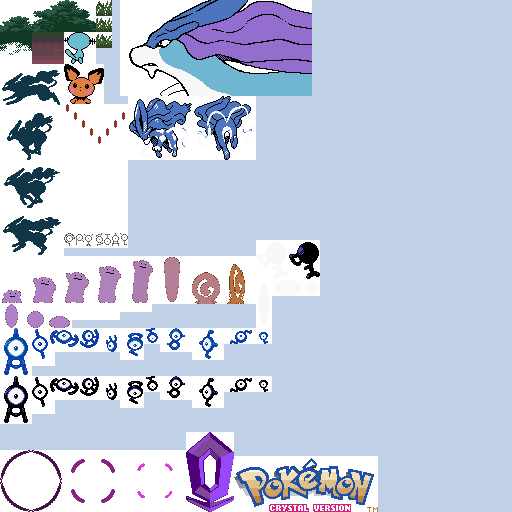
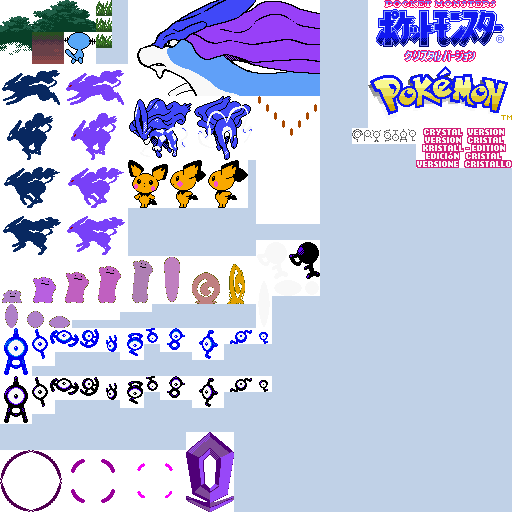
updated colors and sprites
pichu now turns

diff --git a/crystal_sprites.js b/crystal_sprites.js
@@ -9,11 +9,17 @@ var spriteDef = {
 	"suicune_run1":	{"w": 64,	"h": 48,	"x": 0,	"y": 112},
 	"suicune_run2": {"w": 64,	"h": 48,	"x": 0,	"y": 160},
 	"suicune_run3": {"w": 64,	"h": 48,	"x": 0,	"y": 208},
-	"suicune_anime":{"w": 192,	"h": 96,	"x": 120,	"y": 0},
+	"suicune_run_title0":	{"w": 64,	"h": 48,	"x": 64,	"y": 64},
+	"suicune_run_title1":	{"w": 64,	"h": 48,	"x": 64,	"y": 112},
+	"suicune_run_title2": {"w": 64,	"h": 48,	"x": 64,	"y": 160},
+	"suicune_run_title3": {"w": 64,	"h": 48,	"x": 64,	"y": 208},
+	"suicune_anime":{"w": 192,	"h": 96,	"x": 128,	"y": 0},
 	"suicune_versus": {"w": 64,	"h": 64,	"x": 128,	"y": 96},
 	"suicune_attack": {"w": 64,	"h": 64,	"x": 192,	"y": 96},
 	"wooper":		{"w": 32,	"h": 32,	"x": 64,	"y": 32},
-	"pichu_front":	{"w": 40,	"h": 40,	"x": 64,	"y": 64},
+	"pichu_front":	{"w": 40,	"h": 48,	"x": 128,	"y": 160},
+	"pichu_turn":	{"w": 40,	"h": 48,	"x": 168,	"y": 160},
+	"pichu_side":	{"w": 40,	"h": 48,	"x": 208,	"y": 160},
 	"dittobl0":		{"w": 24,	"h": 24,	"x": 0,	"y": 304},
 	"dittobl1":		{"w": 24,	"h": 24,	"x": 24,	"y": 304},
 	"dittobl2":		{"w": 24,	"h": 24,	"x": 48,	"y": 304},
@@ -51,16 +57,23 @@ var spriteDef = {
 	"unown_b7":		{"w": 32,	"h": 16,	"x": 224,	"y": 376},
 	"unown_b8":		{"w": 16,	"h": 16,	"x": 256,	"y": 376},
 	
-	"crystal_c":	{"w": 12, "h": 16, "x": 64, "y": 232},
-	"crystal_r":	{"w": 8, "h": 16, "x": 76, "y": 232},
-	"crystal_y":	{"w": 12, "h": 16, "x": 84, "y": 232},
-	"crystal_s":	{"w": 8, "h": 16, "x": 96, "y": 232},
-	"crystal_t":	{"w": 8, "h": 16, "x": 104, "y": 232},
-	"crystal_a":	{"w": 8, "h": 16, "x": 112, "y": 232},
-	"crystal_l":	{"w": 8, "h": 16, "x": 120, "y": 232},
+	"crystal_c":	{"w": 12, "h": 16, "x": 352, "y": 128},
+	"crystal_r":	{"w": 8, "h": 16, "x": 384, "y": 128},
+	"crystal_y":	{"w": 12, "h": 16, "x": 372, "y": 128},
+	"crystal_s":	{"w": 8, "h": 16, "x": 384, "y": 128},
+	"crystal_t":	{"w": 8, "h": 16, "x": 392, "y": 128},
+	"crystal_a":	{"w": 8, "h": 16, "x": 400, "y": 128},
+	"crystal_l":	{"w": 8, "h": 16, "x": 408, "y": 128},
 	
 	"the_crystal":	{"w": 48, "h": 80, "x": 186, "y": 432},
-	"gamelogo":	{"w": 144, "h": 56, "x": 234, "y": 456},
+	"gamelogo_world":	{"w": 144, "h": 56, "x": 368, "y": 64},
+	"gamelogo_jp":	{"w": 144, "h": 56, "x": 368, "y": 64},
+	
+	"gameversion_world": {"w": 96, "h": 8, "x": 416, "y": 128},
+	"gameversion_fr": {"w": 96, "h": 8, "x": 416, "y": 136},
+	"gameversion_de": {"w": 96, "h": 8, "x": 416, "y": 144},
+	"gameversion_es": {"w": 96, "h": 8, "x": 416, "y": 152},
+	"gameversion_it": {"w": 96, "h": 8, "x": 416, "y": 160},
 	
 	"pulse_tl0":	{"w": 32,	"h": 32,	"x": 124,	"y": 450},
 	"pulse_tr0":	{"w": 32,	"h": 32,	"x": 154,	"y": 450},
@@ -77,7 +90,7 @@ var spriteDef = {
 	"pulse_bl2":	{"w": 32,	"h": 32,	"x": 0,	"y": 480},
 	"pulse_br2":	{"w": 32,	"h": 32,	"x": 30,	"y": 480},
 	
-	"battlebg":		{"w": 64,	"h": 128,	"x": 64,	"y": 104},
+	"battlebg":		{"w": 64,	"h": 128,	"x": 256,	"y": 96},
 	
 	"unowntp0":		{"w": 16,	"h": 16,	"x": 304,	"y": 280},
 	"unowntp1":		{"w": 32,	"h": 16,	"x": 272,	"y": 280},

diff --git a/crystal.js b/crystal.js
@@ -55,8 +55,9 @@ function frameSpawn() {// runs only with state change
 			objects = {
 				"fill": boxgen("#000000", 0, 0, -1, -1),
 				"the_crystal": sprgen("the_crystal", 56, -50),
-				"gamelogo": sprgen("gamelogo", 8, 16, {"phase": 108}),
-				"suicune_run": sprgen("suicune_run0", 48, 88),
+				"gamelogo": sprgen("gamelogo_world", 8, 16, {"phase": 108}),
+				"gameversion": sprgen("gameversion_world", 36, 64, {"phase": 108}),
+				"suicune_run": sprgen("suicune_run_title0", 48, 88),
 				}
 	
 	if (state == "dittogf")
@@ -78,10 +79,10 @@ function frameSpawn() {// runs only with state change
 			}
 	
 	if (state.startsWith("battle")) {
-		objects = {"fill": boxgen("#AC5A61", 0, 0, -1, -1)}
+		objects = {"fill": boxgen("#C06048", 0, 0, -1, -1)}
 		
 		if (state == "battle_anime") {
-			objects = {"fill": boxgen("#AC5A61", 0, 24, -1, 96)}
+			objects = {"fill": boxgen("#C06048", 0, 24, -1, 96)}
 			objects["suicune_anime"] = sprgen("suicune_anime", 120, 24);
 		}
 		else {
@@ -149,10 +150,10 @@ function frameSpawn() {// runs only with state change
 	if (state.startsWith("outdoors")) {
 		if (!(Object.keys(objects).includes("treetopbg")))
 			objects = {
-				"skyfill": boxgen("#AC5A61", 0, 0, -1, -1),
+				"skyfill": boxgen("#C06048", 0, 0, -1, -1),
 				"treetopbg": sprgen("treetopbg", -32, 32, {"repeat": "x+x-"}),
-				"forestfill": boxgen("#06221F", 0, 64, -1, -1),
-				"dirtfill": boxgen("#824855", 0, 144, -1, -1),
+				"forestfill": boxgen("#002028", 0, 64, -1, -1),
+				"dirtfill": boxgen("#684048", 0, 144, -1, -1),
 				"treebasebg": sprgen("treebasebg", -32, 64, {"repeat": "x+x-"}),
 				"suicune_run": sprgen("suicune_run2", 158, 68, {"opacity": 0}),
 				"grassfg": sprgen("grass_still", -32, 96, {"repeat": "x+x-"}),
@@ -167,7 +168,7 @@ function frameSpawn() {// runs only with state change
 		
 		if (state == "outdoors_suicune_discovered") {
 			objects["wooper"] = sprgen("wooper", 20, 144);
-			objects["pichu"] = sprgen("pichu_front", 100, 145);
+			objects["pichu"] = sprgen("pichu_front", 100, 146);
 		}
 	}
 	
@@ -221,8 +222,10 @@ function frameTick() {// called each tick
 		if (objects["the_crystal"].y < 6)
 			moveObject("the_crystal", 0, 2);
 		
-		if (objects["gamelogo"].flags.phase > 0)
+		if (objects["gamelogo"].flags.phase > 0) {
 			objects["gamelogo"].flags.phase -= 4;
+			objects["gameversion"].flags.phase -= 4;
+		}
 		
 		if (stateframe > 1 && (stateframe - 1) % 8 == 0)
 			spriteChange("suicune_run", "add", 1, 4);
@@ -315,6 +318,12 @@ function frameTick() {// called each tick
 		
 		if (stateframe > 1448-1347 && objects["pichu"].y > 104)
 			moveObject("pichu", 0, -6);
+		
+		if (stateframe > 1448-1336)
+			objects["pichu"].sprite = "pichu_turn";
+		
+		if (stateframe > 1448-1330)
+			objects["pichu"].sprite = "pichu_side";
 	}
 	
 	if (state == "battle_anime") {

diff --git a/index.html b/index.html
@@ -1,0 +1,38 @@
+<style>
+body {
+	background: #000000;
+	margin: 0;
+	cursor: none;
+}
+
+#assets, #fontmap, #sandbox, #mix, #mic {
+	display: none;
+	position: fixed;
+	top: 0;
+	left: 0;
+	z-index: 1;
+}
+
+#display {
+	width: 100%;
+	height: 100%;
+	
+	image-rendering: -moz-crisp-edges;
+	image-rendering: -webkit-crisp-edges;
+	image-rendering: pixelated;
+	image-rendering: crisp-edges;
+}
+<Title>Crystal</title>
+</style>
+
+<body onload="resize();play();">
+<img id="assets" src="assets.png">
+<img id="fontmap" src="fontmap.png">
+<canvas id="display"></canvas>
+<canvas id="sandbox" width="256" height="256"></canvas>
+<canvas id="mix" width="128" height="128"></canvas>
+<script src="introman.js"></script>
+<script src="crystal.js"></script>
+<script src="crystal_sprites.js"></script>
+<script src="textrender.js"></script>
+</body>
